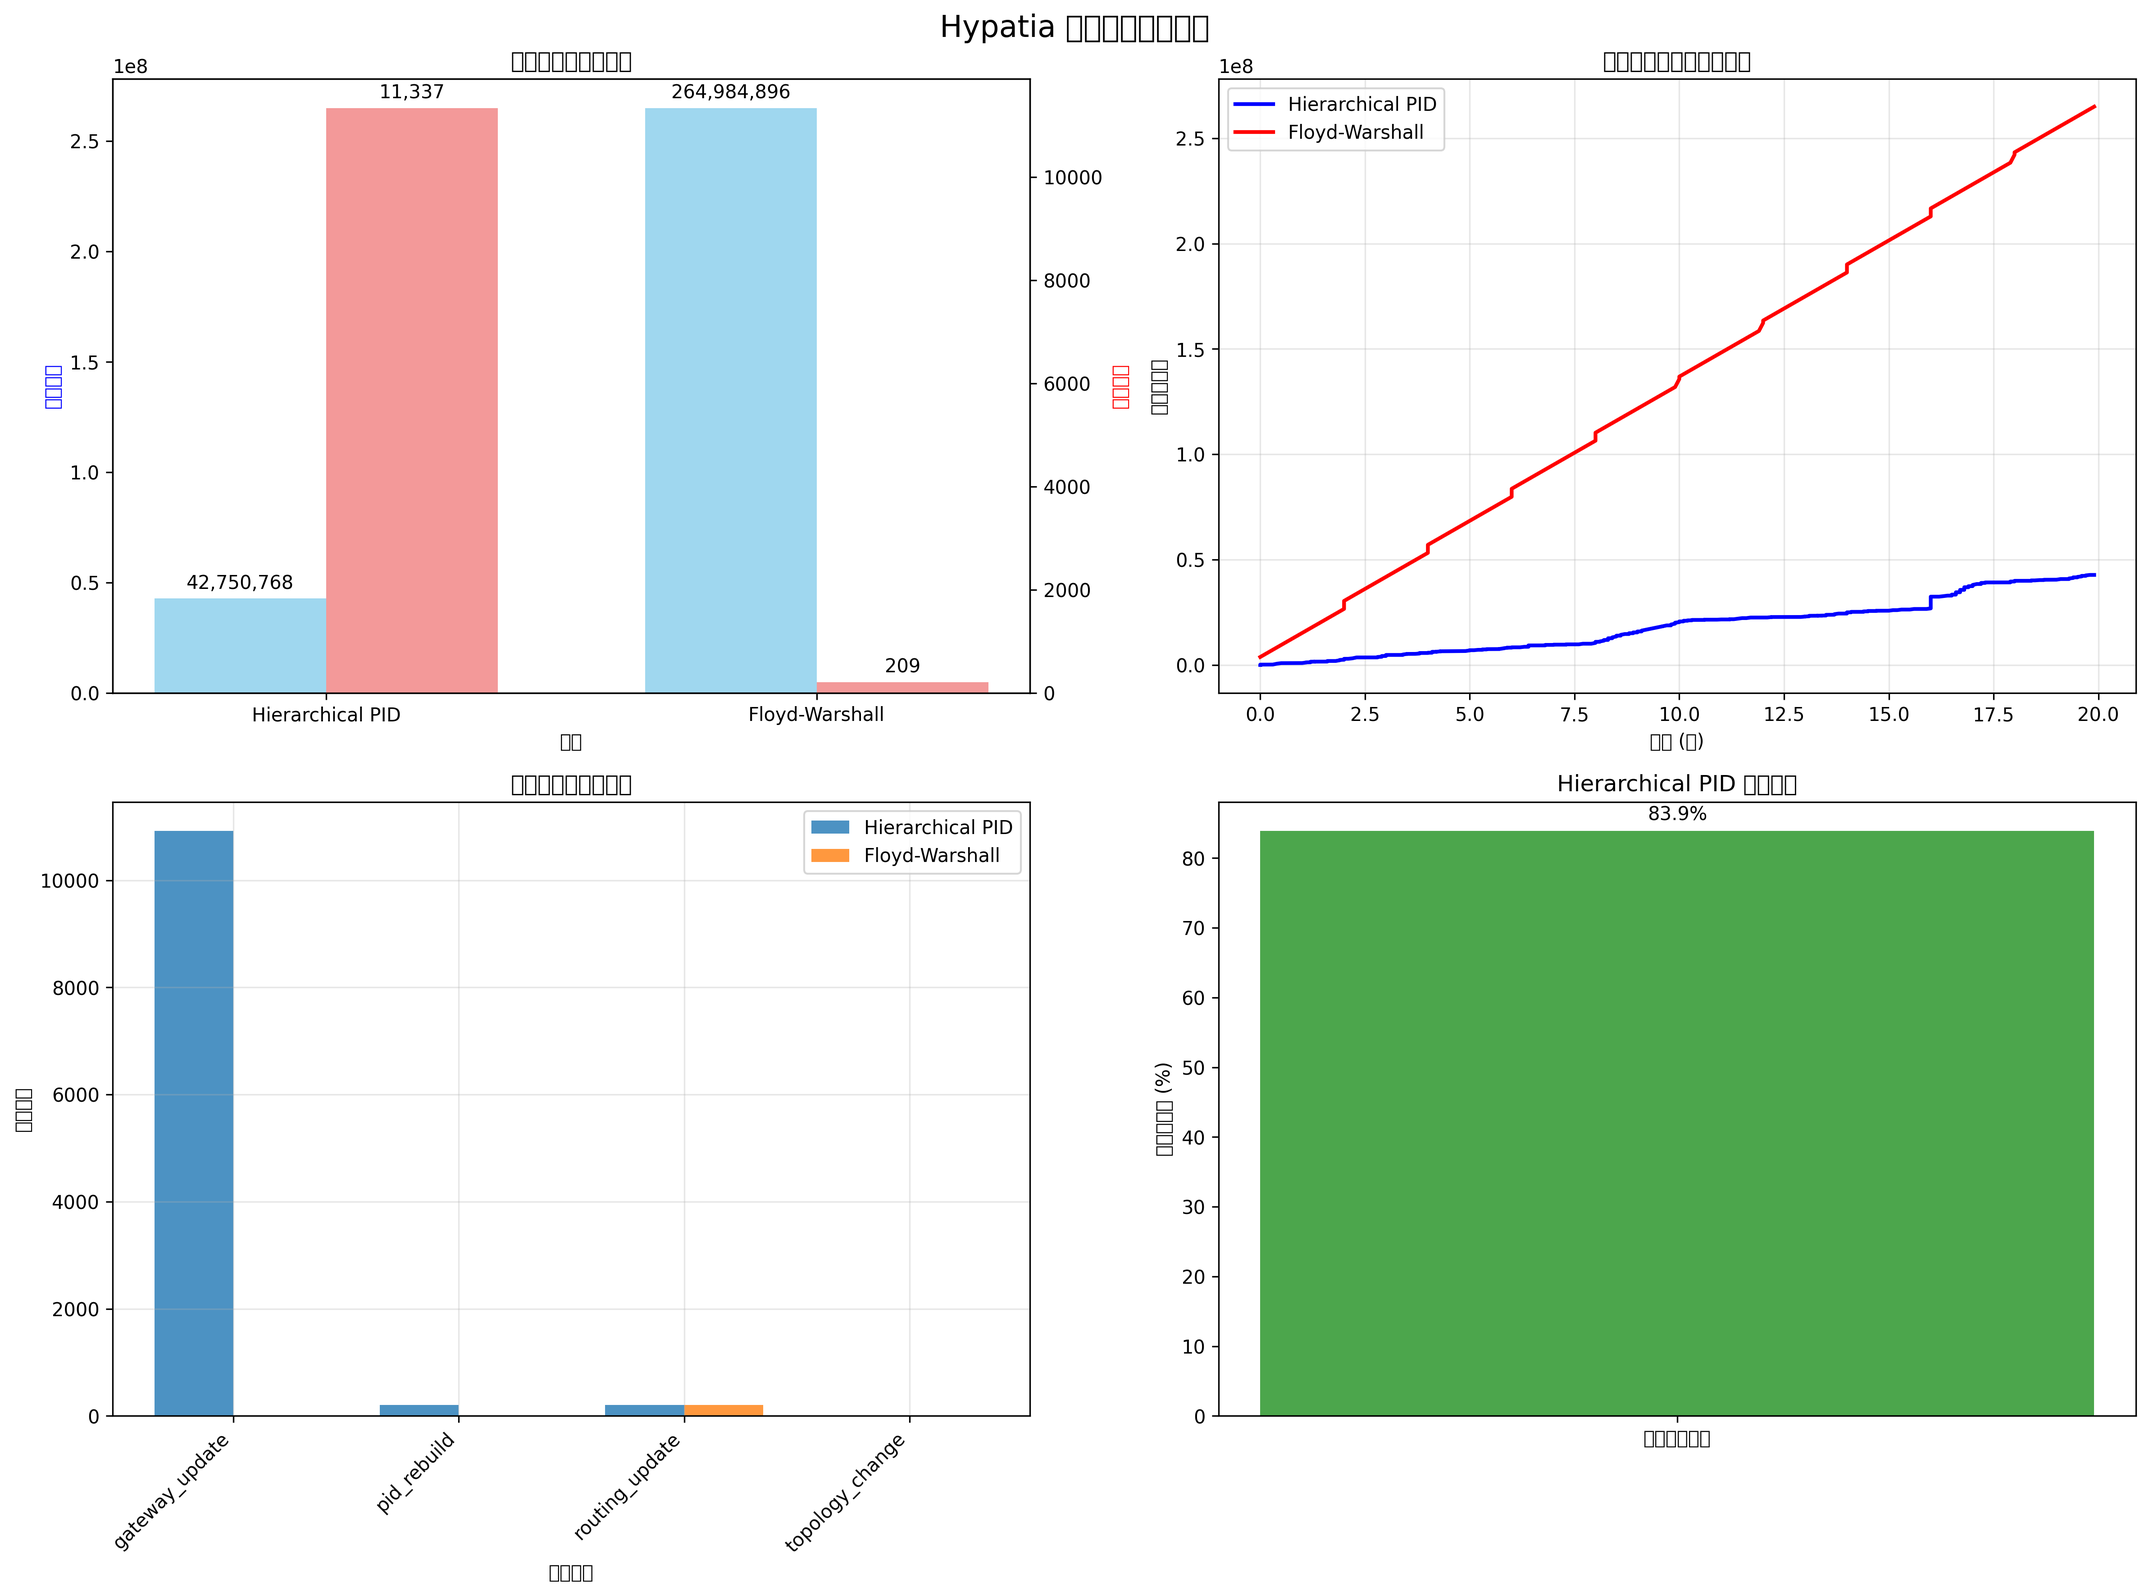
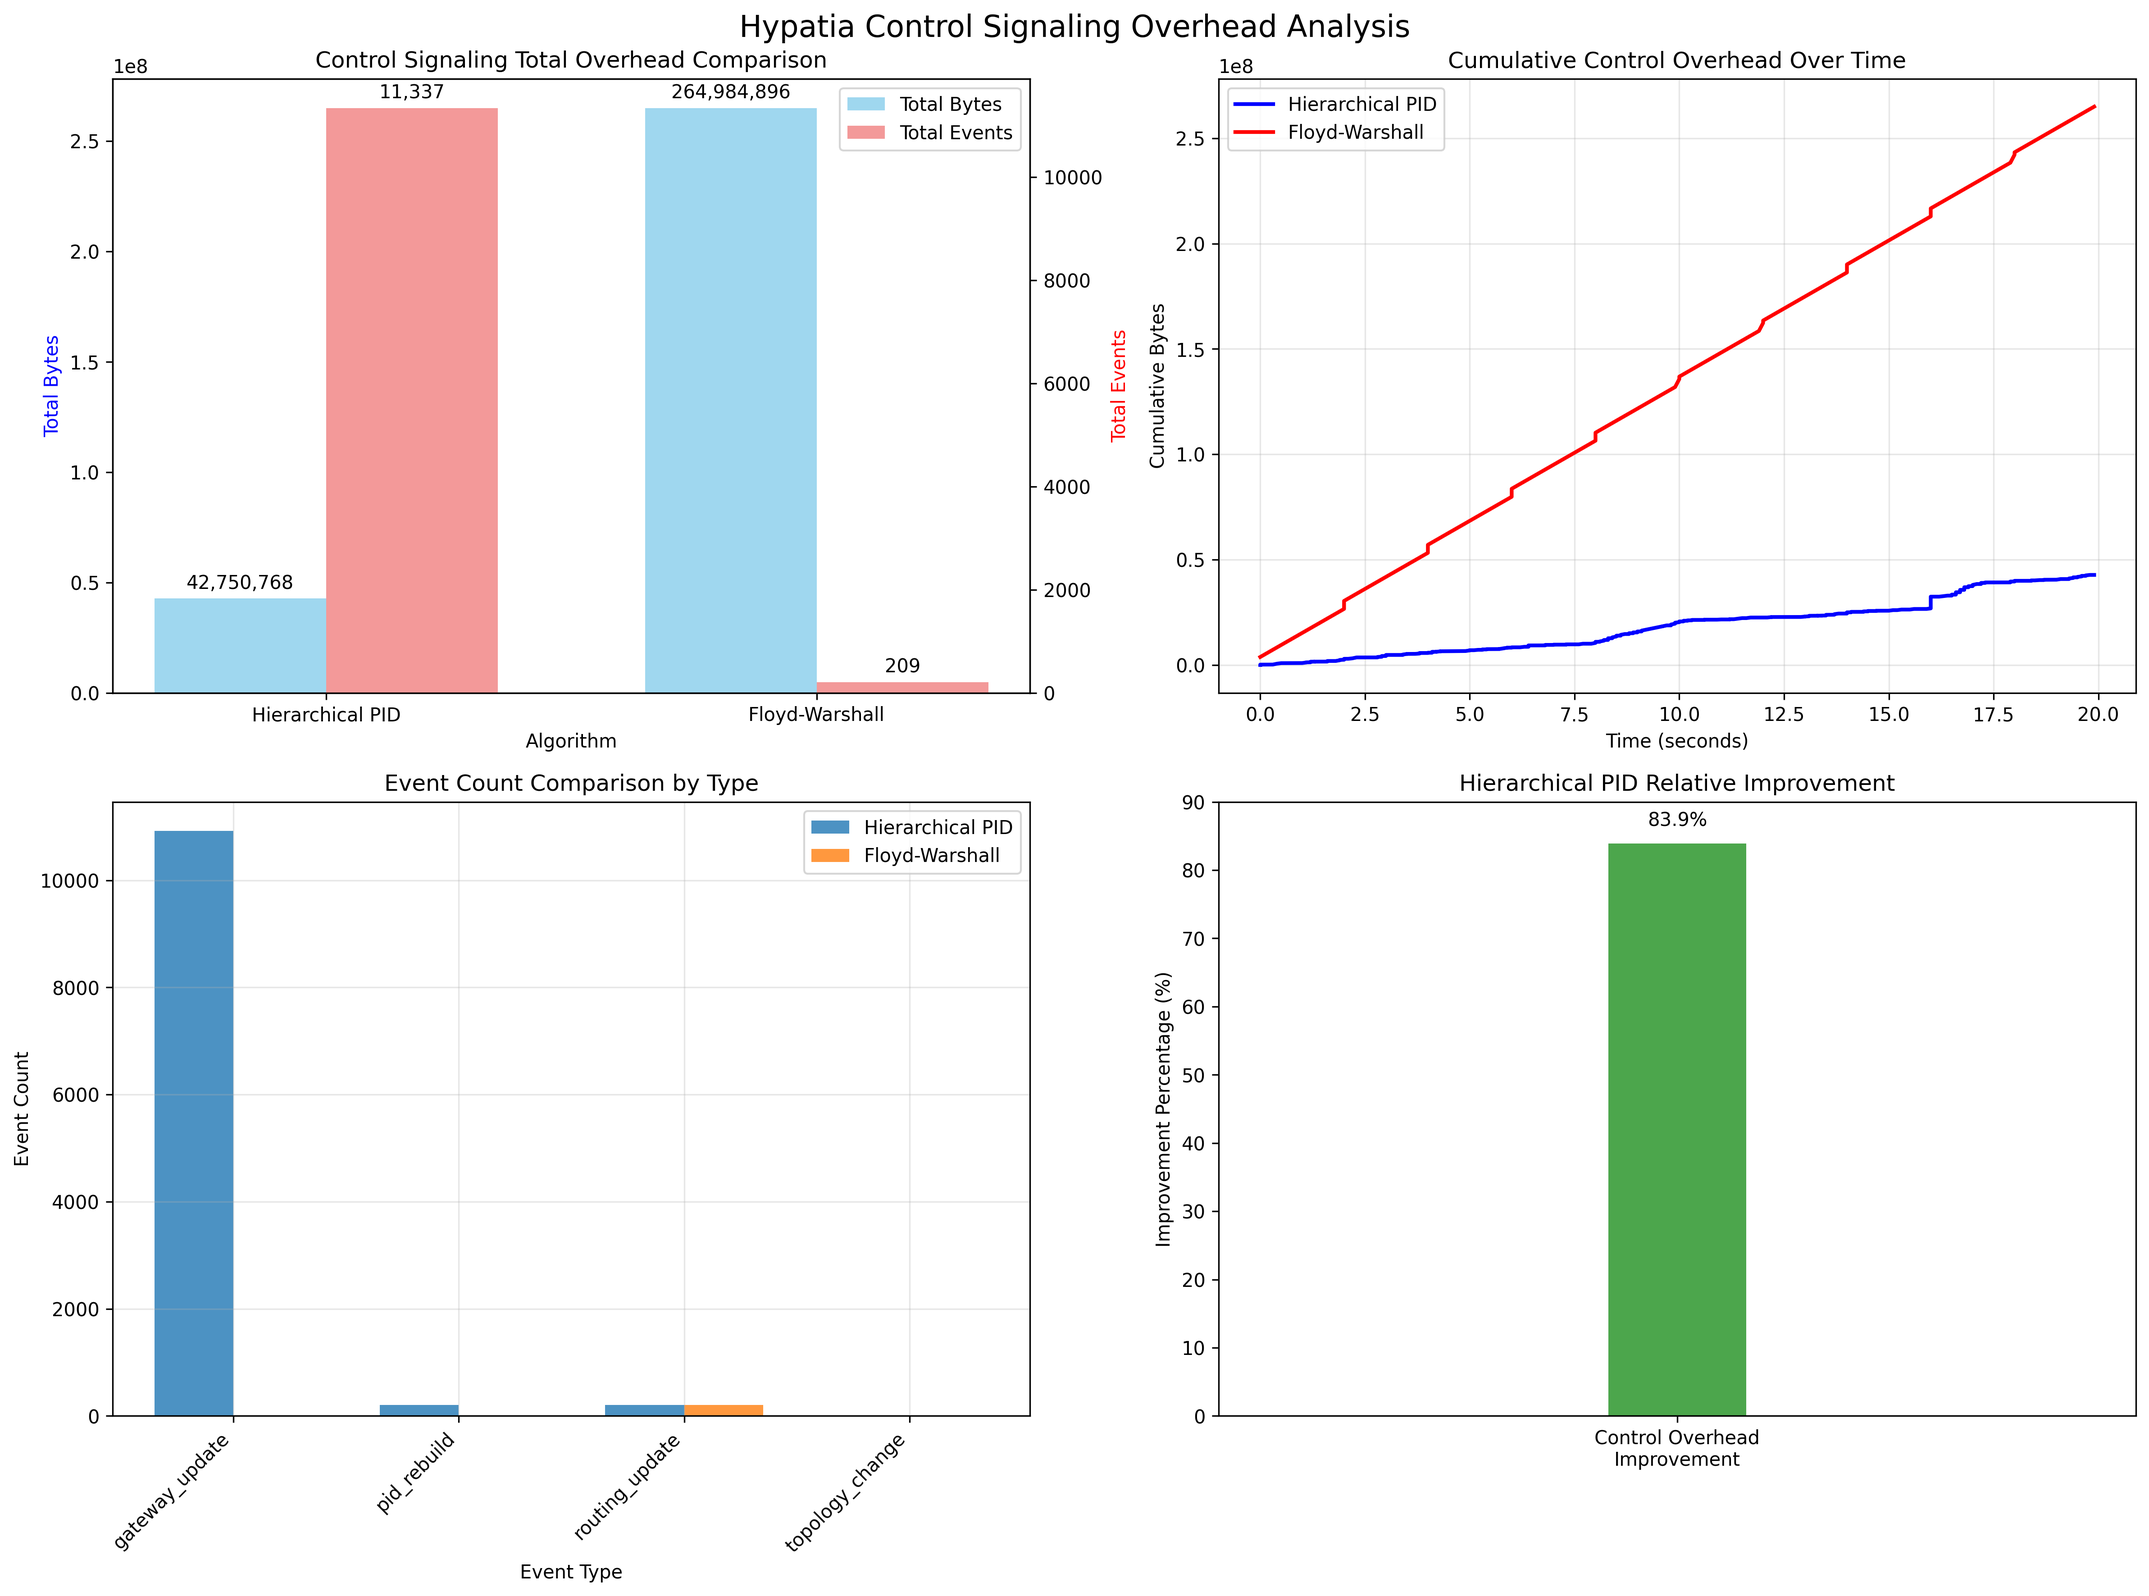
fix: fine tune the signaling analyzer and adjust the record model

diff --git a/hypatia_signaling_analyzer.py b/hypatia_signaling_analyzer.py
@@ -106,17 +106,15 @@ class HypatiaSignalingAnalyzer:
     
     def generate_visualization(self, hierarchical_data, baseline_data, output_path):
         """生成可視化圖表"""
-        # 設置中文字體
-        plt.rcParams['font.sans-serif'] = ['SimHei', 'DejaVu Sans', 'Arial Unicode MS']
-        plt.rcParams['axes.unicode_minus'] = False
+        # Use default font (no need for Chinese font configuration)
         
         fig, axes = plt.subplots(2, 2, figsize=(16, 12))
-        fig.suptitle('Hypatia 控制信令開銷分析', fontsize=16)
+        fig.suptitle('Hypatia Control Signaling Overhead Analysis', fontsize=16)
         
         h_summary = hierarchical_data['summary']
         b_summary = baseline_data['summary']
         
-        # 1. 總體比較柱狀圖
+        # Chart 1: Overall Comparison
         ax1 = axes[0, 0]
         algorithms = ['Hierarchical PID', 'Floyd-Warshall']
         total_bytes = [h_summary['total_bytes'], b_summary['total_bytes']]
@@ -126,15 +124,20 @@ class HypatiaSignalingAnalyzer:
         width = 0.35
         
         ax1_twin = ax1.twinx()
-        bars1 = ax1.bar(x - width/2, total_bytes, width, label='總字節數', alpha=0.8, color='skyblue')
-        bars2 = ax1_twin.bar(x + width/2, total_events, width, label='總事件數', alpha=0.8, color='lightcoral')
+        bars1 = ax1.bar(x - width/2, total_bytes, width, label='Total Bytes', alpha=0.8, color='skyblue')
+        bars2 = ax1_twin.bar(x + width/2, total_events, width, label='Total Events', alpha=0.8, color='lightcoral')
         
-        ax1.set_xlabel('算法')
-        ax1.set_ylabel('總字節數', color='blue')
-        ax1_twin.set_ylabel('總事件數', color='red')
-        ax1.set_title('控制信令總開銷比較')
+        ax1.set_xlabel('Algorithm')
+        ax1.set_ylabel('Total Bytes', color='blue')
+        ax1_twin.set_ylabel('Total Events', color='red')
+        ax1.set_title('Control Signaling Total Overhead Comparison')
         ax1.set_xticks(x)
         ax1.set_xticklabels(algorithms)
+        
+        # Combine legends from both axes and display on the right
+        lines1, labels1 = ax1.get_legend_handles_labels()
+        lines2, labels2 = ax1_twin.get_legend_handles_labels()
+        ax1.legend(lines1 + lines2, labels1 + labels2, loc='upper right')
         
         # 添加數值標籤
         for bar, value in zip(bars1, total_bytes):
@@ -145,7 +148,7 @@ class HypatiaSignalingAnalyzer:
             ax1_twin.text(bar.get_x() + bar.get_width()/2, bar.get_height() + max(total_events)*0.01,
                          f'{value:,}', ha='center', va='bottom')
         
-        # 2. 時間軸分析
+        # Chart 2: Timeline Analysis
         ax2 = axes[0, 1]
         
         # 轉換時間軸數據
@@ -162,13 +165,13 @@ class HypatiaSignalingAnalyzer:
                     ax2.plot(df_sorted['time_ms']/1000, cumulative_bytes, 
                             label=algo_name, color=color, linewidth=2)
         
-        ax2.set_title('累積控制開銷隨時間變化')
-        ax2.set_xlabel('時間 (秒)')
-        ax2.set_ylabel('累積字節數')
+        ax2.set_title('Cumulative Control Overhead Over Time')
+        ax2.set_xlabel('Time (seconds)')
+        ax2.set_ylabel('Cumulative Bytes')
         ax2.legend()
         ax2.grid(True, alpha=0.3)
         
-        # 3. 事件類型分布
+        # Chart 3: Event Type Distribution
         ax3 = axes[1, 0]
         
         # 收集所有事件類型
@@ -190,18 +193,18 @@ class HypatiaSignalingAnalyzer:
             ax3.bar(x - width/2, h_counts, width, label='Hierarchical PID', alpha=0.8)
             ax3.bar(x + width/2, b_counts, width, label='Floyd-Warshall', alpha=0.8)
             
-            ax3.set_title('各類型事件數量比較')
-            ax3.set_xlabel('事件類型')
-            ax3.set_ylabel('事件數量')
+            ax3.set_title('Event Count Comparison by Type')
+            ax3.set_xlabel('Event Type')
+            ax3.set_ylabel('Event Count')
             ax3.set_xticks(x)
             ax3.set_xticklabels(all_event_types, rotation=45, ha='right')
             ax3.legend()
             ax3.grid(True, alpha=0.3)
         else:
-            ax3.text(0.5, 0.5, '暫無事件類型數據', ha='center', va='center', transform=ax3.transAxes)
-            ax3.set_title('各類型事件數量比較')
+            ax3.text(0.5, 0.5, 'No Event Type Data', ha='center', va='center', transform=ax3.transAxes)
+            ax3.set_title('Event Count Comparison by Type')
         
-        # 4. 改進百分比
+        # Chart 4: Improvement Percentage
         ax4 = axes[1, 1]
         
         if b_summary['total_bytes'] > 0:
@@ -209,20 +212,30 @@ class HypatiaSignalingAnalyzer:
                              b_summary['total_bytes'] * 100)
             
             colors = ['green' if improvement_pct > 0 else 'red']
-            bars = ax4.bar(['控制開銷改進'], [improvement_pct], color=colors, alpha=0.7)
+            # Make the bar narrower by setting width parameter and positioning
+            bars = ax4.bar([0], [improvement_pct], 
+                          color=colors, alpha=0.7, width=0.3)
             
-            ax4.set_title('Hierarchical PID 相對改進')
-            ax4.set_ylabel('改進百分比 (%)')
+            ax4.set_title('Hierarchical PID Relative Improvement')
+            ax4.set_ylabel('Improvement Percentage (%)')
             ax4.axhline(y=0, color='black', linestyle='-', linewidth=0.5)
+            
+            # Set x-axis limits to make the bar appear narrower
+            ax4.set_xlim(-1, 1)
+            ax4.set_xticks([0])
+            ax4.set_xticklabels(['Control Overhead\nImprovement'])
+            
+            # Set y-axis limit to 90% to make the bar appear shorter
+            ax4.set_ylim(0, 90)
             
             # 添加數值標籤
             for bar in bars:
                 height = bar.get_height()
-                ax4.text(bar.get_x() + bar.get_width()/2., height + (1 if height >= 0 else -1),
-                        f'{height:.1f}%', ha='center', va='bottom' if height >= 0 else 'top')
+                ax4.text(bar.get_x() + bar.get_width()/2., height + 2,
+                        f'{height:.1f}%', ha='center', va='bottom')
         else:
-            ax4.text(0.5, 0.5, '無法計算改進比例', ha='center', va='center', transform=ax4.transAxes)
-            ax4.set_title('Hierarchical PID 相對改進')
+            ax4.text(0.5, 0.5, 'Cannot Calculate Improvement Ratio', ha='center', va='center', transform=ax4.transAxes)
+            ax4.set_title('Hierarchical PID Relative Improvement')
         
         plt.tight_layout()
         

diff --git a/satgenpy/satgen/dynamic_state/algorithm_hierarchical_virtual_pid.py b/satgenpy/satgen/dynamic_state/algorithm_hierarchical_virtual_pid.py
@@ -8,6 +8,7 @@ import math
 import networkx as nx
 from .fstate_calculation import calculate_fstate_shortest_path_without_gs_relaying
 import os
+import io
 import sys
 import tempfile
 import datetime as _dt
@@ -60,17 +61,18 @@ class ControlSignalingStats:
         self.timeline.append(row)
     
     def record_routing_update(self, snapshot, sim_time_ms,
-                              changed_entries:int, total_entries:int, bytes_per_entry:int=16):
+                              changed_pairs:int, k_published:int=None,
+                              bytes=None, base_bytes:int=48, per_edge_bytes:int=24):
         """記錄路由表更新"""
         self.routing_updates += 1
         b = changed_entries * bytes_per_entry
-        self.total_messages += 1
+        # 不要在這裡再自增 total_messages；_append 會依 count 增加一次
         self._append(EventRow(snapshot, sim_time_ms, "routing_update",
-                              count=1,
-                              detail={"changed_entries": changed_entries,
-                                      "total_entries": total_entries,
-                                      "diff_ratio": (changed_entries/total_entries if total_entries else 0.0)},
-                              bytes=b))
+                            count=1,
+                            detail={"changed_entries": changed_entries,
+                                    "total_entries": total_entries,
+                                    "diff_ratio": (changed_entries/total_entries if total_entries else 0.0)},
+                            bytes=b))
     
     def record_gateway_update(self, snapshot, sim_time_ms,
                               changed_pairs:int, k_published:int=None,
@@ -87,17 +89,17 @@ class ControlSignalingStats:
             base_bytes: 每對 PID 的基礎開銷
             per_edge_bytes: 每條邊的開銷
         """
-        self.gateway_updates += changed_pairs
+        self.gateway_updates += 1
         
         if bytes is None:
-            # 預設計算邏輯
+            # 預設計算邏輯：bytes 仍依 changed_pairs 估算，因為每對 PID 都會帶資料
             k_used = k_published or 0
             bytes = changed_pairs * (base_bytes + k_used * per_edge_bytes)
         
         self._append(EventRow(snapshot, sim_time_ms, "gateway_update",
-                              count=changed_pairs,
-                              detail={"k": k_published} if k_published is not None else None,
-                              bytes=bytes))
+                            count=1,
+                            detail={"k": k_published, "changed_pairs": changed_pairs},
+                            bytes=bytes))
     
     def record_pid_rebuild(self, snapshot, sim_time_ms,
                            changed_pids:int, per_pid_bytes:int=64):
@@ -157,9 +159,9 @@ class ControlSignalingStats:
         # 如果指定時間窗口，則過濾事件
         events = self.timeline
         if start_time_ms is not None:
-            events = [e for e in events if e.time_ms >= start_time_ms]
+            events = [e for e in events if e.sim_time_ms >= start_time_ms]
         if end_time_ms is not None:
-            events = [e for e in events if e.time_ms <= end_time_ms]
+            events = [e for e in events if e.sim_time_ms <= end_time_ms]
         
         # 計算統計數據
         by_type = {}
@@ -187,12 +189,11 @@ class ControlSignalingStats:
     
     def get_timeline_csv(self):
         """獲取時間軸數據的CSV格式字符串"""
-        import io
         output = io.StringIO()
         output.write("snapshot,time_ms,event_type,count,bytes,detail\n")
         for event in self.timeline:
             detail_str = str(event.detail) if event.detail else ""
-            output.write(f"{event.snapshot},{event.time_ms},{event.event},{event.count},{event.bytes},\"{detail_str}\"\n")
+            output.write(f"{event.snapshot},{event.sim_time_ms},{event.event},{event.count},{event.bytes},\"{detail_str}\"\n")
         return output.getvalue()
     
     def save_stats_to_file(self, filepath, include_timeline=True):

diff --git a/satgenpy/satgen/dynamic_state/algorithm_free_one_only_over_isls_with_stats.py b/satgenpy/satgen/dynamic_state/algorithm_free_one_only_over_isls_with_stats.py
@@ -33,8 +33,8 @@ from datetime import datetime
 class EventRow:
     """單個控制信令事件記錄"""
     snapshot: int         # 快照索引
-    time_ms: int         # 模擬時間（毫秒）
-    event_type: str      # 事件類型
+    sim_time_ms: int     # 模擬時間（毫秒） - 統一字段名稱
+    event: str           # 事件類型 - 統一字段名稱
     count: int = 1       # 事件數量
     detail: Optional[Dict[str, Any]] = None  # 詳細信息
     bytes: int = 0       # 控制信令字節數
@@ -54,7 +54,7 @@ class ControlSignalingStats:
         self.timeline: List[EventRow] = []
     
     def _append(self, event: EventRow):
-        """添加事件到時間軸"""
+        """添加事件到時間軸 - 統一邏輯，避免雙重累加"""
         self.timeline.append(event)
         self.total_messages += event.count
         self.total_bytes += event.bytes
@@ -70,6 +70,7 @@ class ControlSignalingStats:
         else:
             b = bytes
         
+        # 不再雙重累加 - _append 已經處理 count 增加
         self._append(EventRow(snapshot, sim_time_ms, "routing_update",
                               count=1,
                               detail={"changed_entries": changed_entries, 
@@ -101,10 +102,10 @@ class ControlSignalingStats:
         total_count = 0
         
         for event in events:
-            if event.event_type not in by_type:
-                by_type[event.event_type] = {"count": 0, "bytes": 0}
-            by_type[event.event_type]["count"] += event.count
-            by_type[event.event_type]["bytes"] += event.bytes
+            if event.event not in by_type:
+                by_type[event.event] = {"count": 0, "bytes": 0}
+            by_type[event.event]["count"] += event.count
+            by_type[event.event]["bytes"] += event.bytes
             total_bytes += event.bytes
             total_count += event.count
         
@@ -122,7 +123,7 @@ class ControlSignalingStats:
         output.write("snapshot,time_ms,event_type,count,bytes,detail\n")
         for event in self.timeline:
             detail_str = str(event.detail) if event.detail else ""
-            output.write(f"{event.snapshot},{event.time_ms},{event.event_type},{event.count},{event.bytes},\"{detail_str}\"\n")
+            output.write(f"{event.snapshot},{event.sim_time_ms},{event.event},{event.count},{event.bytes},\"{detail_str}\"\n")
         return output.getvalue()
     
     def save_stats_to_file(self, filepath, include_timeline=True):
@@ -323,8 +324,8 @@ def algorithm_free_one_only_over_isls(
             "timeline": [
                 {
                     "snapshot": row.snapshot,
-                    "time_ms": row.time_ms,
-                    "event": row.event_type,
+                    "time_ms": row.sim_time_ms,
+                    "event": row.event,
                     "count": row.count,
                     "bytes": row.bytes,
                     "detail": row.detail
